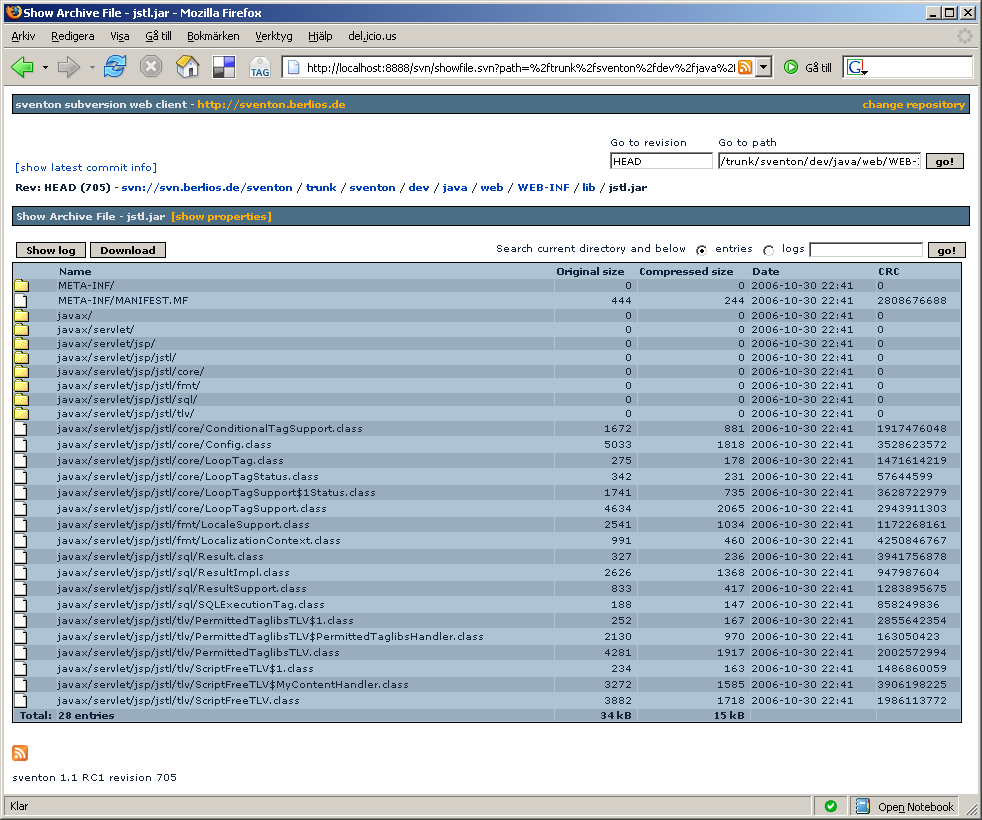
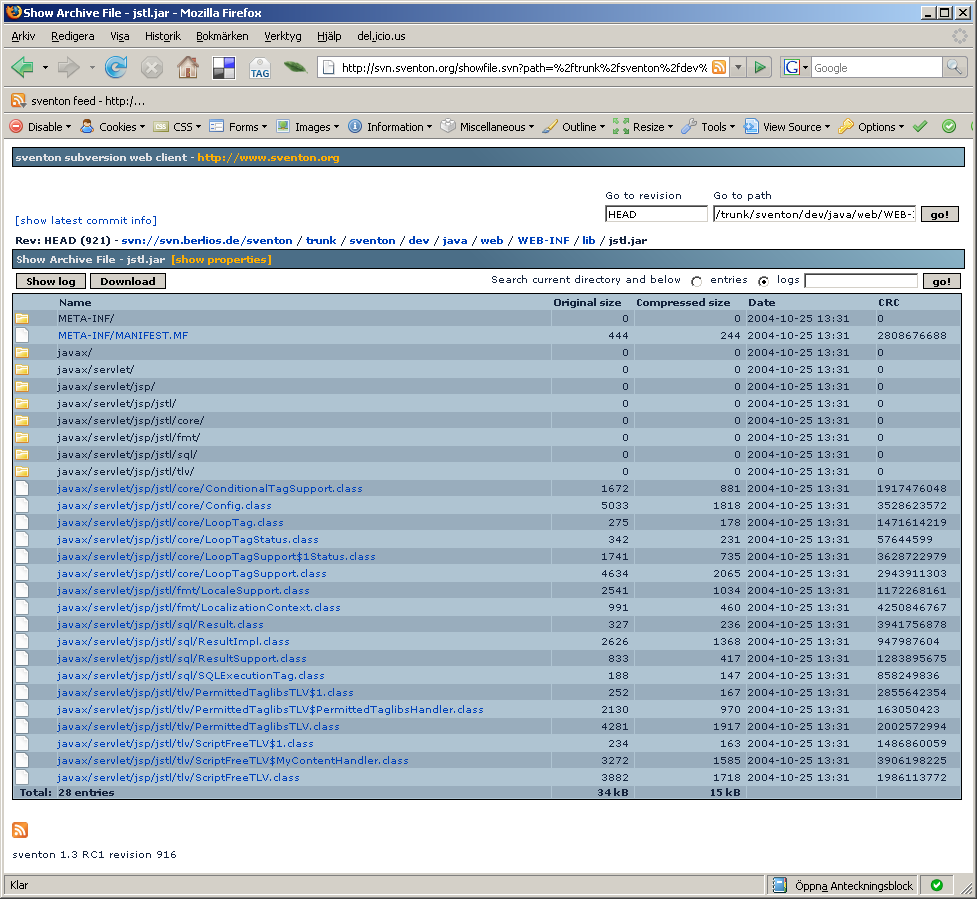
Created release tag for sventon 1.3 RC2.

Changed region(s): [[0.0, 0.0, 1.0, 1.0]]

diff --git a/sventon/dev/java/web/js/sventon.js b/sventon/dev/java/web/js/sventon.js
@@ -267,7 +267,7 @@ function showHideHelp(helpDiv, id) {
 }
 
 // Gets the log message for given revision.
-function getLogMessage(revision, instanceName) {
+function getLogMessage(revision, instanceName, date) {
   var url = 'getmessage.ajax';
   var urlParams = 'revision=' + revision + '&name=' + instanceName;
   var divName = 'msg' + revision + 'Div';
@@ -280,12 +280,30 @@ function getLogMessage(revision, instanceName) {
     },
     onFailure: reportAjaxError
   });
-  return Tip('<div id=\"' + divName + '\" style=\"width: 350px;\"><img src=\"images/spinner.gif\" alt=\"spinner\"/></div>', TITLE, 'Log message', BORDERCOLOR, '#3e647e', BGCOLOR, '#ffffff');
+  return Tip('<div id=\"' + divName + '\" style=\"width: 350px;\"><img src=\"images/spinner.gif\" alt=\"spinner\"/></div>', TITLE, 'Log message: ' + date, BORDERCOLOR, '#3e647e', BGCOLOR, '#ffffff');
+}
+
+function highlightBlameRev(revision) {
+  var tags = $('blameTable').getElementsByTagName('td');
+  setBackgroundColor(tags, 'blameRev_' + revision, '#dddddd');
+}
+
+function restoreBlameRev(revision) {
+  var tags = $('blameTable').getElementsByTagName('td');
+  setBackgroundColor(tags, 'blameRev_' + revision, '#ffffff');
 }
 
 // ===============================================================================================
 // Utility functions
 // ===============================================================================================
+
+function setBackgroundColor(tags, cssName, color) {
+  for (var i = 0; i < tags.length; i++) {
+    if (tags[i].className == cssName) {
+        tags[i].style.backgroundColor = color;
+    }
+  }
+}
 
 function toggleInnerHTML(id, text1, text2) {
   var object = $(id);

diff --git a/sventon/dev/java/web/sventon.css b/sventon/dev/java/web/sventon.css
@@ -274,6 +274,10 @@ input.btn {
   padding: 0;
 }
 
+.blameAuthor {
+  background-color: white;
+}
+
 .sventonLineNo {
   color: #000000;
   background-color: white;

diff --git a/sventon/new_web/index.php b/sventon/new_web/index.php
@@ -87,11 +87,11 @@
       </td>
     </tr>
     <tr>
-      <td width="484" height="53" valign="top" style="padding-right:65px;padding-top:20px;" class="body">
+      <td width="484" height="53" valign="top" style="padding-right:65px;padding-top:20px;" class="body" align="left">
         <?php require($includepage); ?>
       </td>
 
-      <td width="216" valign="top">
+      <td width="216" valign="top" align="left">
         <!-- Dowload box -->
         <table width="100%" border="0" cellspacing="0" cellpadding="3" style="margin-top:20px">
           <tr>
@@ -99,7 +99,7 @@
           </tr>
           <tr>
             <td class="downloadBody">
-              <?php require('download.php'); ?>
+              <?php require('downloads.php'); ?>
             </td>
           </tr>
         </table>
@@ -125,9 +125,9 @@
                     $item = $rss->items[$counter];
                     $published = parse_w3cdtf($item['published']);
                     $title = $item['title'];
-                    echo "<li style=\"white-space: nowrap;\"><b>";
+                    echo "<li><b>";
                     echo date("Y-m-d", $published);
-                    echo " - <a href=\"index.php?page=news#$counter\">$title</a></b></li>\r";
+                    echo "<br/><a href=\"index.php?page=news#$counter\">$title</a></b></li>\r";
                     $counter++;
                   }
                 ?>

diff --git a/sventon/dev/java/src/de/berlios/sventon/web/ctrl/ShowFileController.java b/sventon/dev/java/src/de/berlios/sventon/web/ctrl/ShowFileController.java
@@ -33,9 +33,7 @@ import javax.servlet.http.HttpServletResponse;
 import java.io.ByteArrayInputStream;
 import java.io.ByteArrayOutputStream;
 import java.util.HashMap;
-import java.util.List;
 import java.util.Map;
-import java.util.zip.ZipEntry;
 import java.util.zip.ZipInputStream;
 
 /**
@@ -125,11 +123,10 @@ public final class ShowFileController extends AbstractSVNTemplateController impl
     } else if (isArchiveFileExtension(svnCommand)) {
       if (archivedEntry == null) {
         logger.debug("File identified as an archive file");
-        final Map<String, List<ZipEntry>> model1 = new HashMap<String, List<ZipEntry>>();
         getRepositoryService().getFile(repository, svnCommand.getPath(), revision.getNumber(), outStream);
         final ArchiveFile archiveFile = new ArchiveFile(outStream.toByteArray());
-        model1.put("entries", archiveFile.getEntries());
-        modelAndView = new ModelAndView("showarchivefile", model1);
+        model.put("entries", archiveFile.getEntries());
+        modelAndView = new ModelAndView("showarchivefile", model);
       } else {
         logger.debug("Archived entry: " + archivedEntry);
         model.put("archivedEntry", archivedEntry);

diff --git a/sventon/new_web/downloads.php b/sventon/new_web/downloads.php
@@ -1,9 +1,9 @@
 <b>Available versions:</b><br/>
 
 <div style="padding-left:3px;padding-top:5px;">
-  <a href="http://developer.berlios.de/project/showfiles.php?group_id=3670" onClick="javascript:urchinTracker ('/downloads/v13rc1'); ">
-    <img src="images/disk.png" align="absmiddle" vspace="2" hspace="6" border="0"/>1.3 RC1 (beta)</a>
-  <a href="/download/sventon-1.3rc1-r916-bin.zip" onClick="javascript:urchinTracker ('/downloads/v13rc1');">(mirror)</a>
+  <a href="http://developer.berlios.de/project/showfiles.php?group_id=3670" onClick="javascript:urchinTracker ('/downloads/v13rc2'); ">
+    <img src="images/disk.png" align="absmiddle" vspace="2" hspace="6" border="0"/>1.3 RC2 (beta)</a>
+  <a href="/download/sventon-1.3rc2-r932-bin.zip" onClick="javascript:urchinTracker ('/downloads/v13rc2');">(mirror)</a>
   <br/>
 
   <a href="http://developer.berlios.de/project/showfiles.php?group_id=3670" onClick="javascript:urchinTracker ('/downloads/v120'); ">

diff --git a/sventon/new_web/screenshots.php b/sventon/new_web/screenshots.php
@@ -1,5 +1,6 @@
 <div class="header">Screenshots</div>
 <div class="body">
+<!--
 <p>
   <b>Mac OS X screenshots</b>
 </p>
@@ -29,7 +30,7 @@
     <td><a href="images/screenshots/mac_logsearch.png"><img width="150" height="100" alt="Search logs" src="images/screenshots/mac_logsearch.png"/></a></td>
   </tr>
 </table>
-
+-->
 <p>
   <b>Win XP screenshots</b>
 </p>
@@ -59,5 +60,15 @@
     <td><a href="images/screenshots/win_diff.png"><img width="150" height="100" alt="File diff" src="images/screenshots/win_diff.png"/></a></td>
     <td><a href="images/screenshots/win_logsearch.png"><img width="150" height="100" alt="Search logs" src="images/screenshots/win_logsearch.png"/></a></td>
   </tr>
+
+  <tr>
+    <th>Blame</th>
+    <th></th>
+  </tr>
+  <tr>
+    <td><a href="images/screenshots/win_blame.png"><img width="150" height="100" alt="Blame" src="images/screenshots/win_blame.png"/></a></td>
+    <td></td>
+  </tr>
+
 </table>
 </div>

diff --git a/sventon/dev/java/src/de/berlios/sventon/util/HTMLCreator.java b/sventon/dev/java/src/de/berlios/sventon/util/HTMLCreator.java
@@ -105,7 +105,7 @@ public final class HTMLCreator {
       if (logEntryPath.getCopyPath() != null) {
         sb.append("<br/><b>Copy from</b> ");
         sb.append("<a href=\"").append(response.encodeURL(createGoToUrl(
-            baseURL, logEntryPath.getCopyPath(), logEntryPath.getCopyRevision(), instanceName, linkToHead)));
+            baseURL, logEntryPath.getCopyPath(), logEntryPath.getCopyRevision(), instanceName, false)));
         if (showLatestRevInfo) {
           sb.append("&showlatestrevinfo=true");
         }

diff --git a/sventon/new_web/faq.php b/sventon/new_web/faq.php
@@ -85,7 +85,6 @@
     <th>Container</th>
     <th>Protocols</th>
     <th>Java version</th>
-    <th>Tester</th>
     <th>Version</th>
   </tr>
   <tr>
@@ -94,8 +93,7 @@
     <td>Tomcat 5.5.9</td>
     <td>svn/dav</td>
     <td>1.5.0_04</td>
-    <td>sventon committer</td>
-    <td>1.3 RC1</td>
+    <td>1.2.0</td>
   </tr>
   <tr>
     <td>Mac OS X 10.4.3</td>
@@ -103,7 +101,6 @@
     <td>Tomcat 5.5.9</td>
     <td>svn/dav</td>
     <td>1.5.0_05</td>
-    <td>sventon committer</td>
     <td>RC4</td>
   </tr>
 </table>
